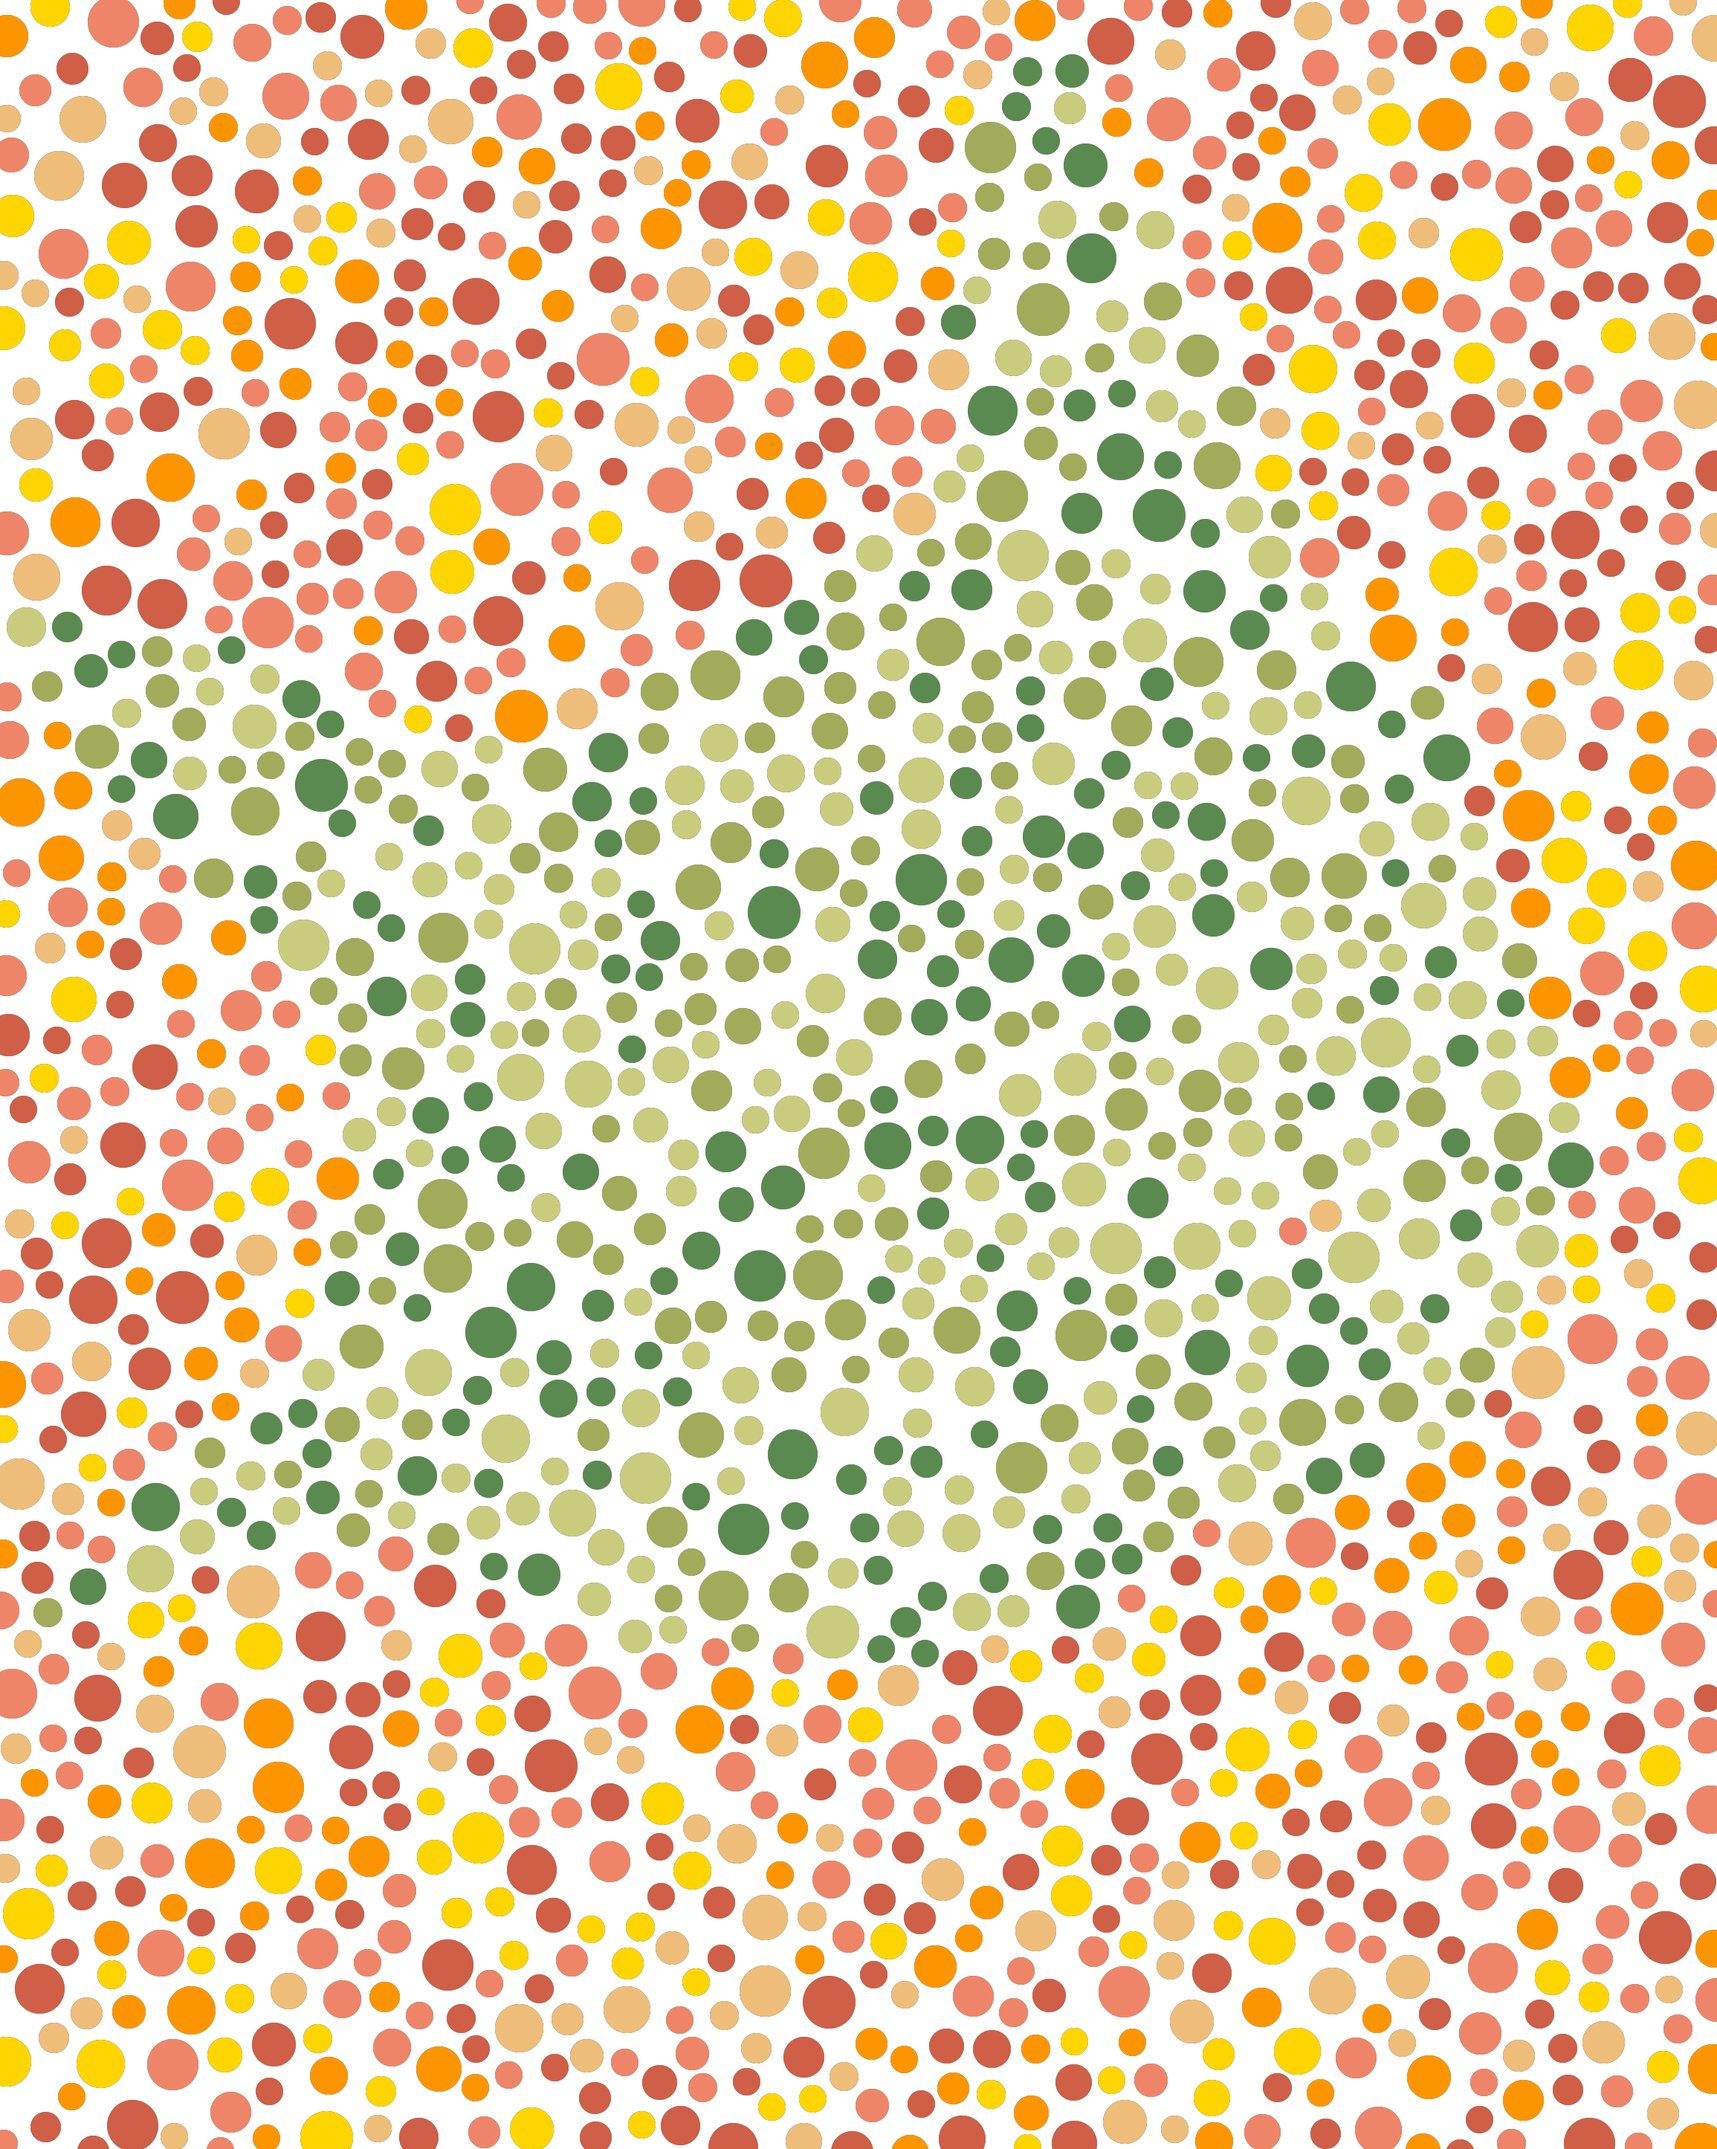
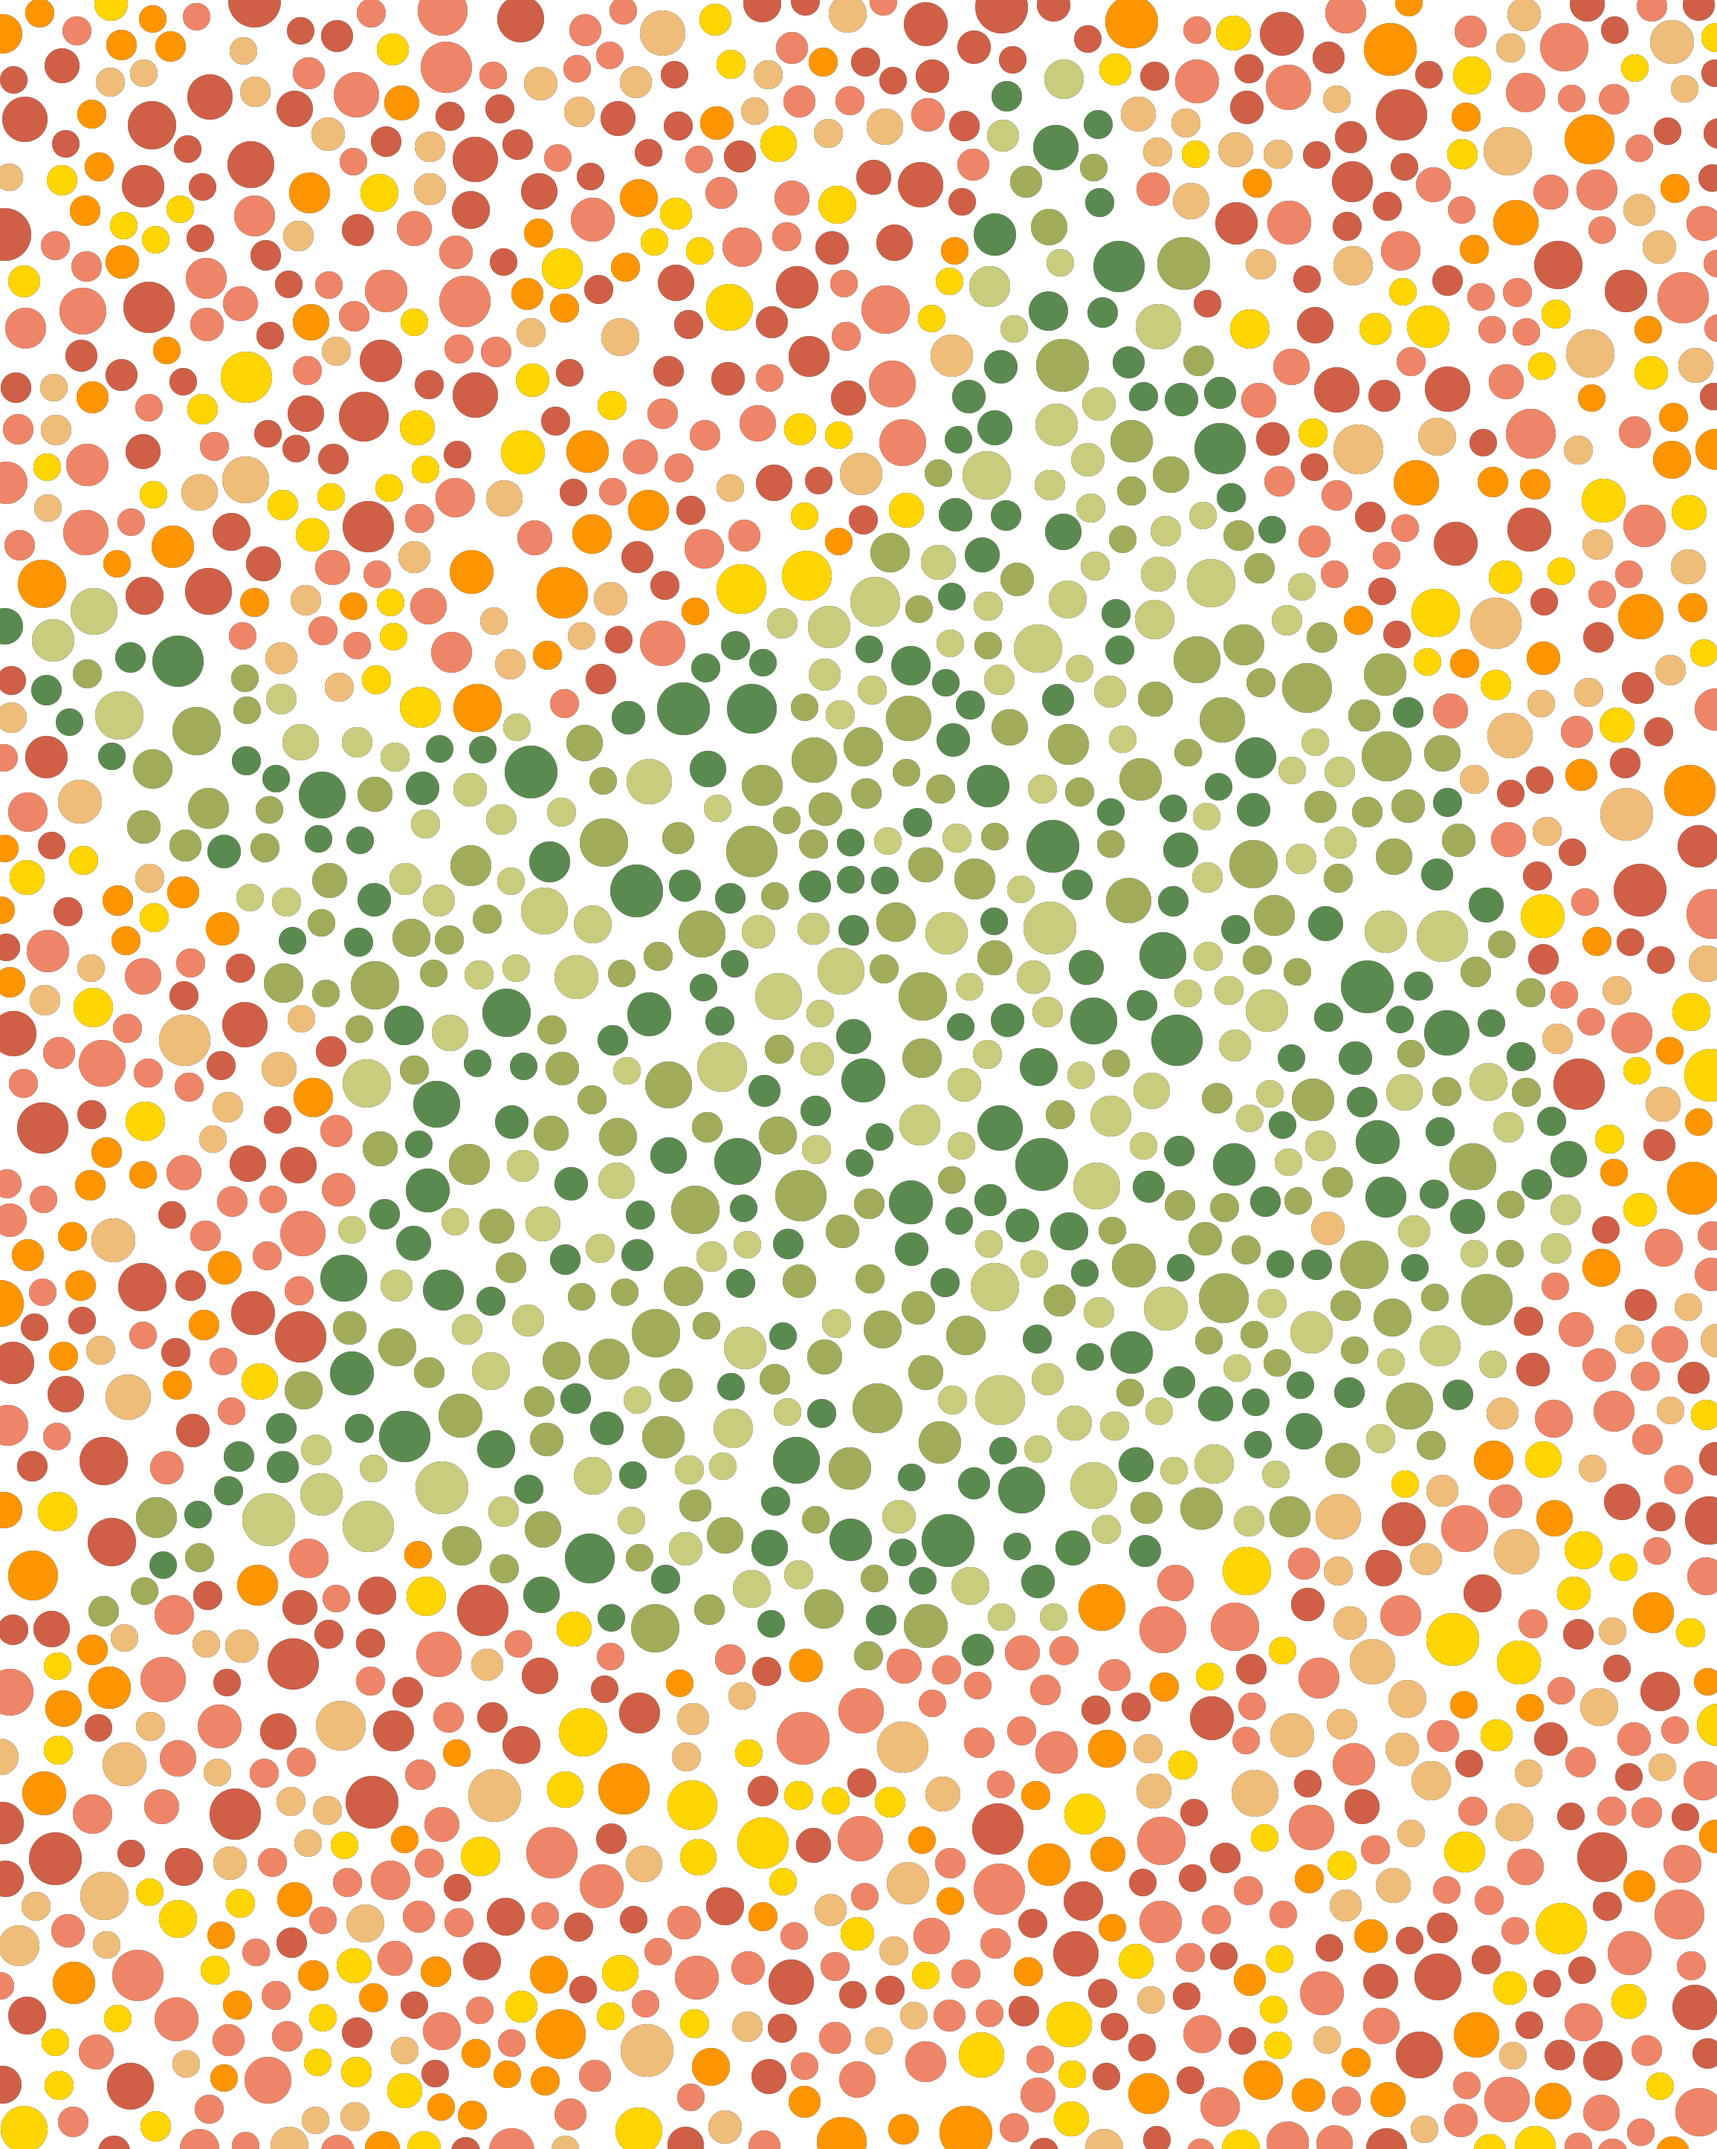
adjusted threshold

diff --git a/src/main.rs b/src/main.rs
@@ -8,9 +8,9 @@ use image_filter::{FilterMatrix};
 
 use crate::{float_image::{FImage, PixelFormat, Pixel}, ishihara_generator::generate_circles, circle_drawer::{draw_circle, fill_circle}};
 
-const bg_colors: [&'static str; 7] = ["#cf5f47", "#cf5f47", "#fd9500", "#ffd500", "#ee8568", "#ee8568", "#eebd7a"];
+const BG_COLORS: [&'static str; 7] = ["#cf5f47", "#cf5f47", "#fd9500", "#ffd500", "#ee8568", "#ee8568", "#eebd7a"];
 
-const fg_colors: [&'static str; 3] = ["#5a8a50", "#a2ab5a", "#c9cc7d"];
+const FG_COLORS: [&'static str; 3] = ["#5a8a50", "#a2ab5a", "#c9cc7d"];
 
 const GRADIENT_H: [[f32; 3]; 3] = [[-1.0, 0.0, 1.0],
                                [-2.0, 0.0, 2.0],
@@ -70,12 +70,12 @@ fn main() {
     let circles = generate_circles(fimage.width(), fimage.height(), c_min, c_max, (c_min / 2).max(1), 0.75);
 
 
-    let fgs: Box<[Pixel]> = fg_colors.iter().map(|c| Pixel::from_hex(c)).collect();
-    let bgs: Box<[Pixel]> = bg_colors.iter().map(|c| Pixel::from_hex(c)).collect();
+    let fgs: Box<[Pixel]> = FG_COLORS.iter().map(|c| Pixel::from_hex(c)).collect();
+    let bgs: Box<[Pixel]> = BG_COLORS.iter().map(|c| Pixel::from_hex(c)).collect();
     println!("Drawing Circles...");
     for circle in &circles[..] {
         let cat_pixel = fimage.get_pixel(circle.x as i32, circle.y as i32);
-        let color = if cat_pixel.a() > 0.5 {
+        let color = if cat_pixel.a() > 0.2 {
             let r = rand::random::<usize>() % fgs.len();
             fgs[r].clone()
         } else {
